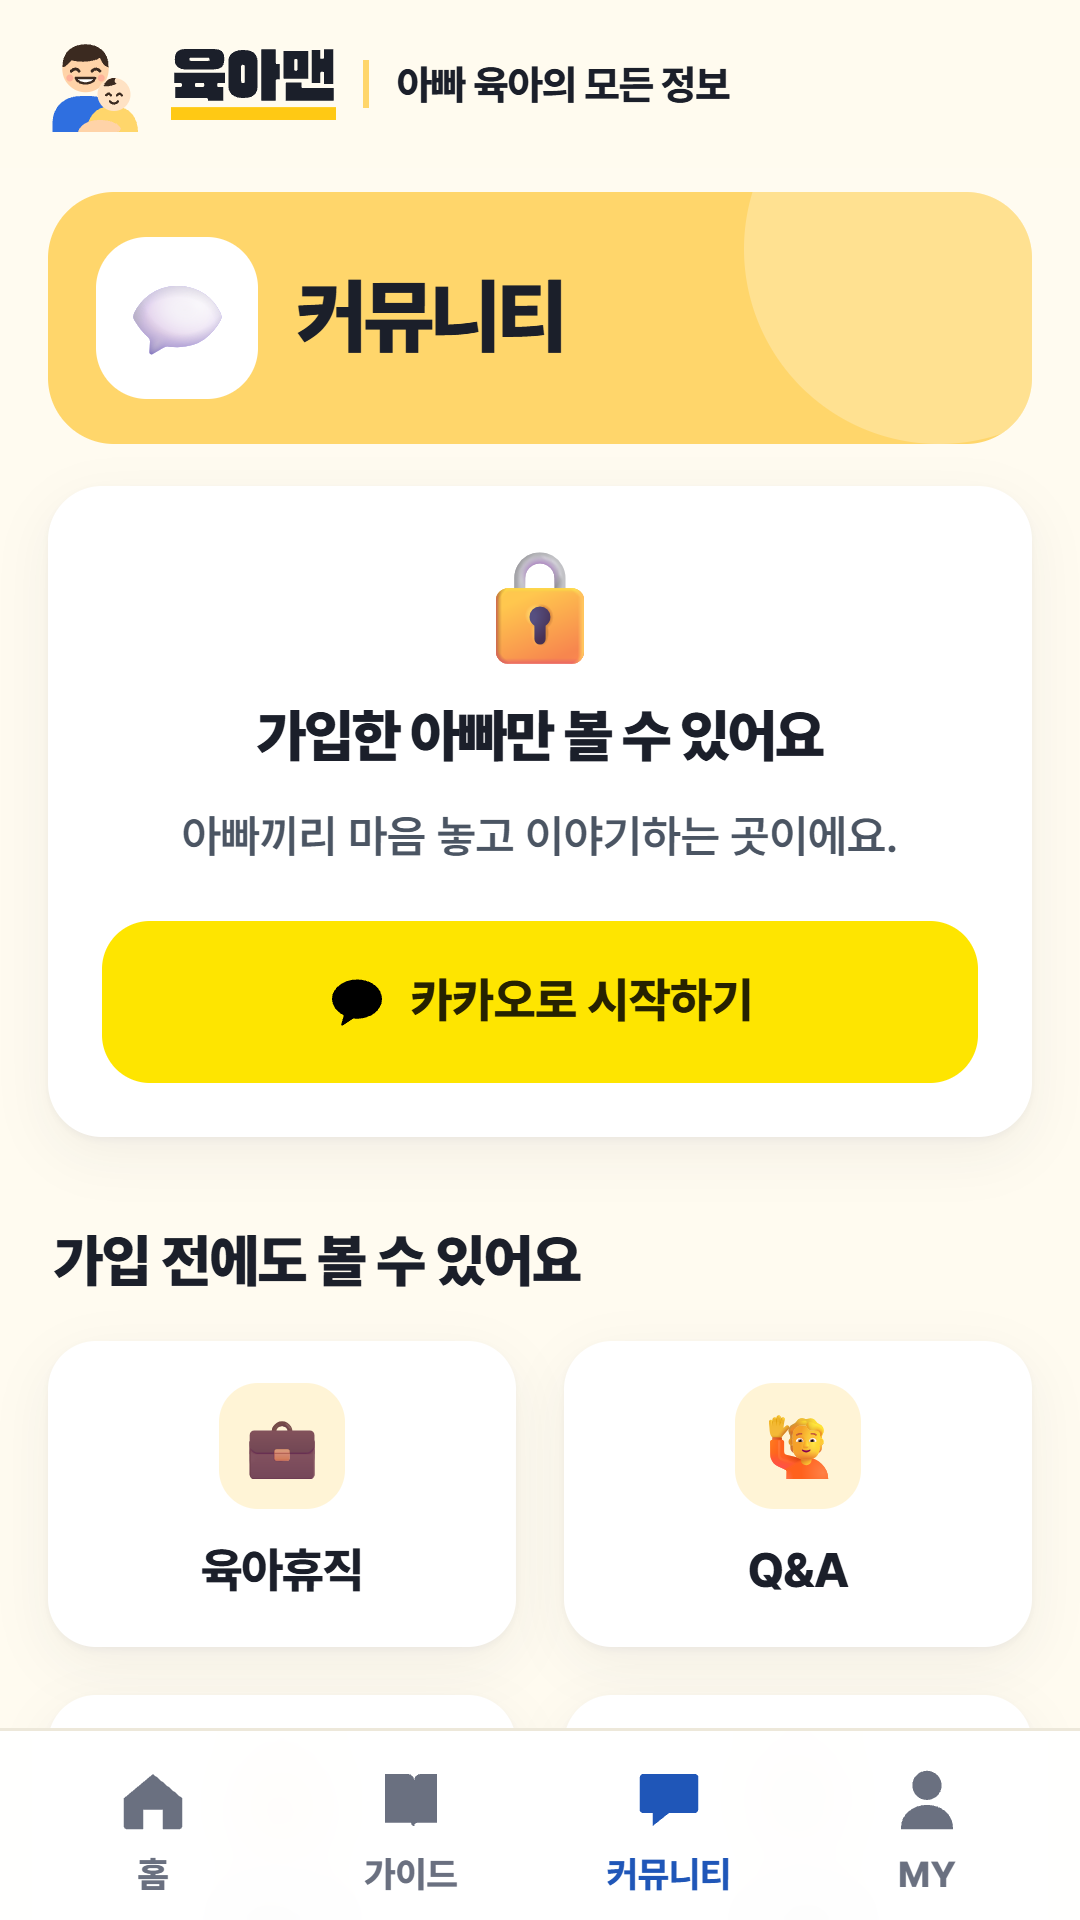
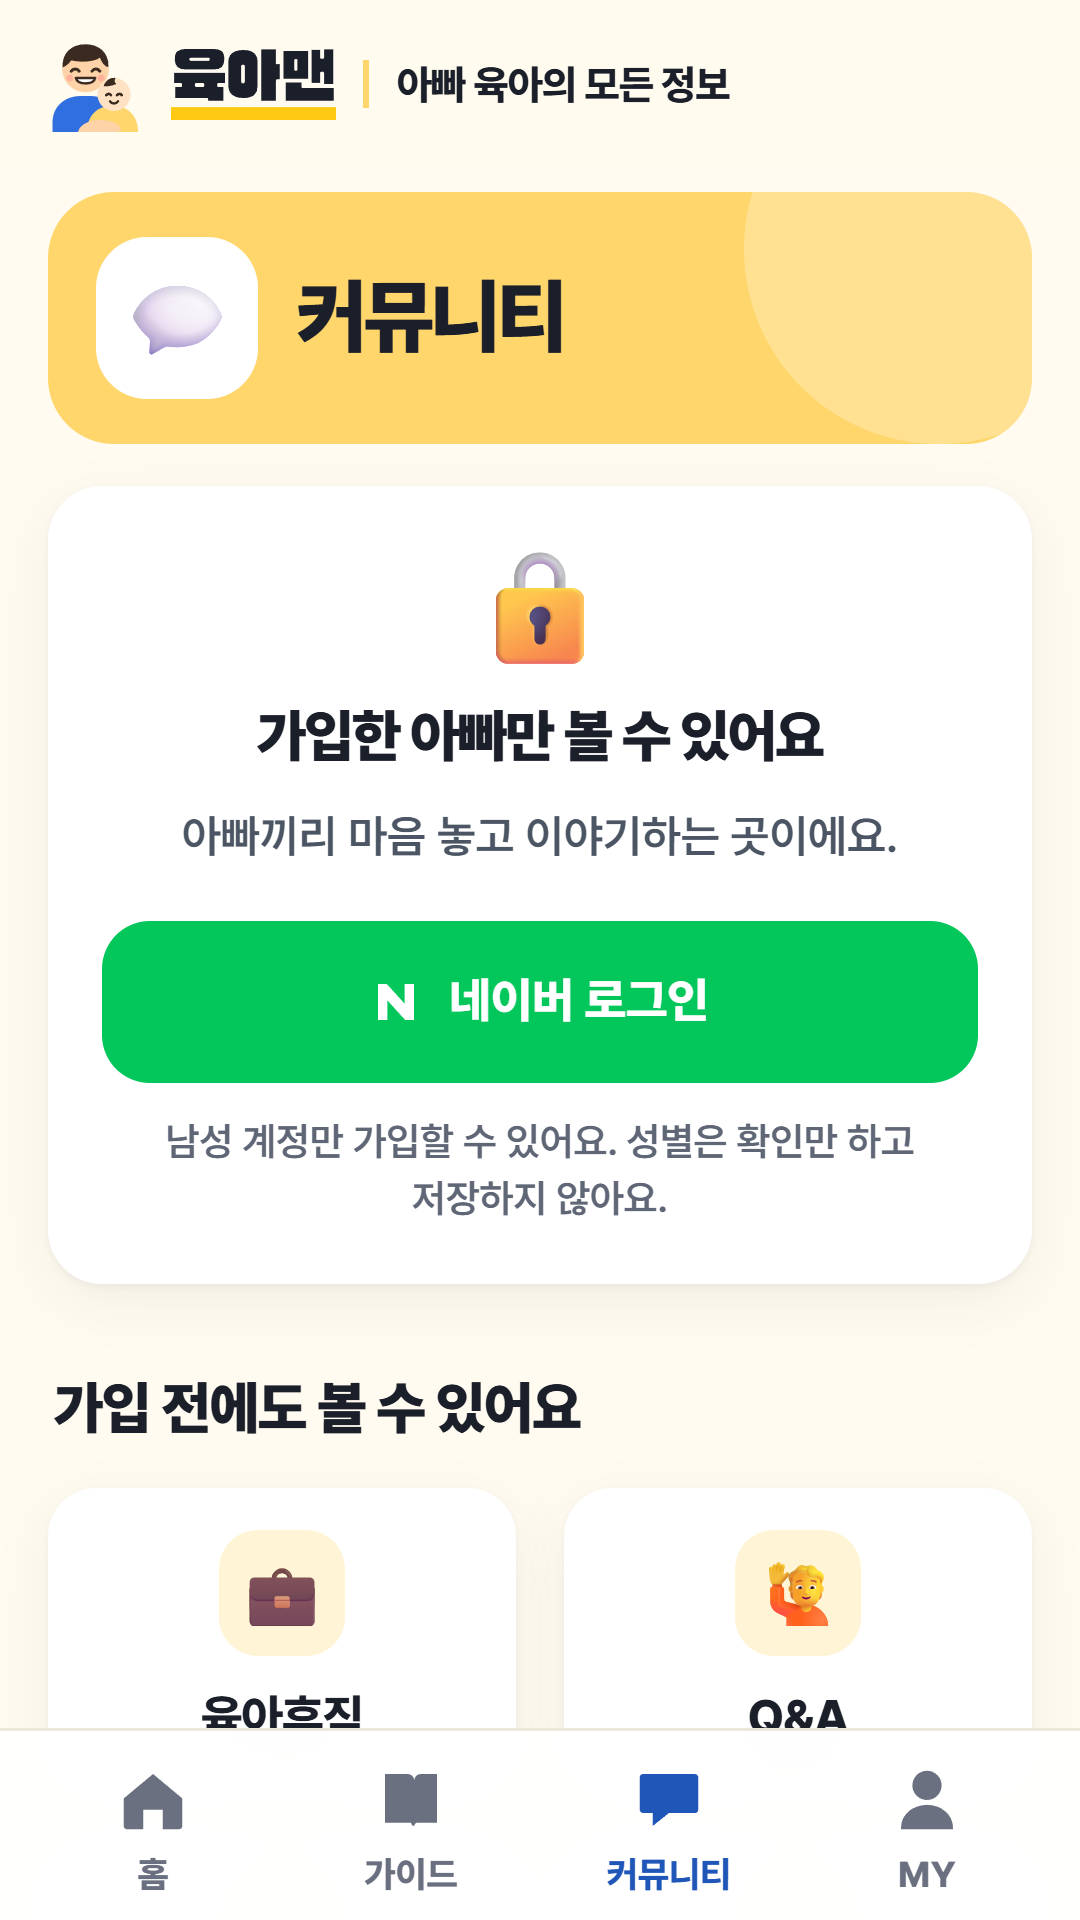
Play 내부 테스트 게시 반영: 앱 서명 지문, 입력표, 커뮤니티 스크린샷

Changed region(s): [[0.0611, 0.4688, 0.9167, 0.6875], [0.0611, 0.7188, 0.55, 0.9062], [0.6722, 0.7188, 0.7944, 0.9062]]

diff --git a/CLAUDE.md b/CLAUDE.md
@@ -111,5 +111,6 @@
 - 2026-11-05: 네이버 앱을 다른 아이디로 새로 등록해 옮김(휴먼쌤 "아이디 옮길래", 검수 전). 옮기기 전 시험 계정을 탈퇴했고 운영 D1 네이버 회원 0. 서버는 연동 끊기에 실패하면 계정을 지우지 않으므로 실제 연동 끊기도 된 것으로 본다. Client ID 교체, Client Secret 다시 입력, backup → deploy(화면 파일 변경 없음, 판 번호는 0.7.3 그대로, 표 변경 없음). 실제 주소의 네이버 시작 주소에 새 Client ID 확인. 옛 앱은 새 앱 확인 뒤 휴먼쌤이 지운다.
 - 2026-11-05: 새 앱으로 실제 시험 끝(휴먼쌤 화면 7장). PC에서 남성 계정 가입, PC 시크릿 창에서 여성 계정 거절, 폰에서 같은 네이버 계정으로 다시 로그인. 운영 D1 회원 3 · 네이버 1 · 대기 기록 0. 문구와 첨부 화면은 휴먼쌤이 갖고 있다.
 - 2026-11-05: 휴먼쌤이 네이버 로그인 검수를 요청함. 결과 대기. 통과 전에는 소유자와 멤버관리 아이디만 네이버로 로그인된다. 반려되면 사유를 보고 고쳐 다시 요청한다. 남성만 받는 조건이 통과할지는 아직 모른다.
+- 2026-11-05: Play Console에 앱을 만들고 내부 테스트에 버전 1(1.0.0)을 게시함(휴먼쌤 "너가 직접 해줘" · "문제 없으면 진행해"). 선언 2개가 들어갔고 휴먼쌤이 유지로 확인함. Play 앱 서명 지문을 `assetlinks.json`에 더했고 아직 시험 주소에 안 올림. 입력표: 스토어 글(제도 글 근거 문구 · 의료 고지 · 남성 계정 조건) · 심사 안내 · 건강 앱 답을 고치고, 비공개 테스트 제출은 네이버 검수 결과 뒤로 함. 커뮤니티 스크린샷을 네이버 화면으로 바꿈. 못 본 것: 폰 앱에서 주소창 없음 · 네이버 로그인 · 탈퇴 · 심사 입구 실제 입장. 앱 설정과 스토어 등록정보는 아직 안 넣음.
 - 제도 문장을 쓸 때 조문만 보지 말고 담당 부처 답변·FAQ를 함께 본다(공개 빠른상담 답변이 조문 문구와 반대로 운영되는 경우가 있었다).
 - 남은 일(코드로 못 하는 것): 첫 아빠 열 명 모집, 이름 반응 조사, 약관·처리방침 법률 검토, 공개 결정. 작은 것: 읽기·검색 횟수 제한, IP 해시 소금, 관리자 코드 만료, 푸시 알림, 경로 주소·사전 렌더링.
